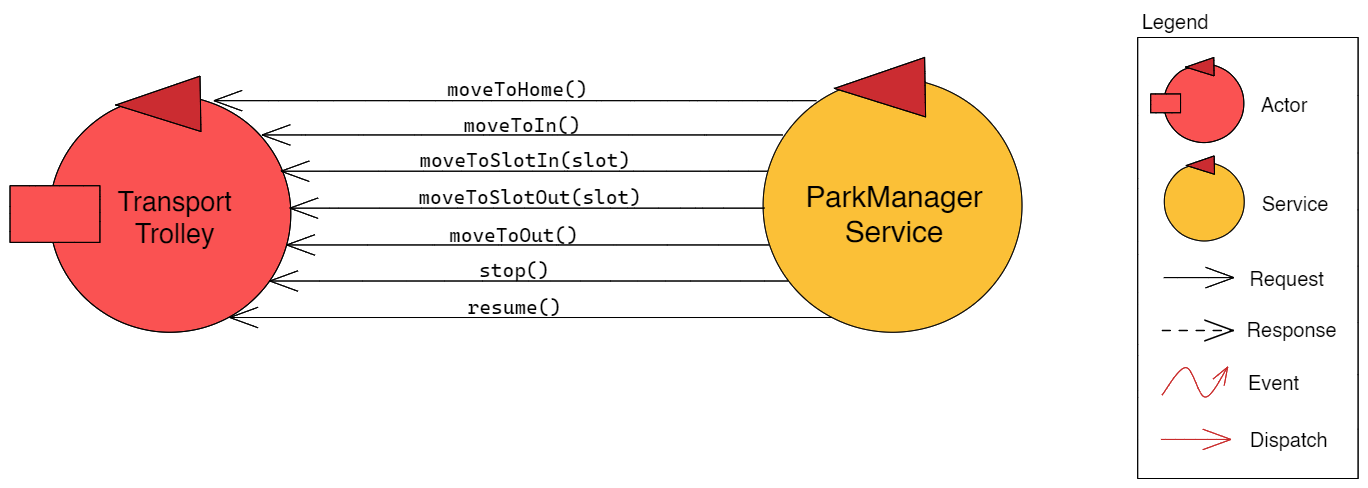
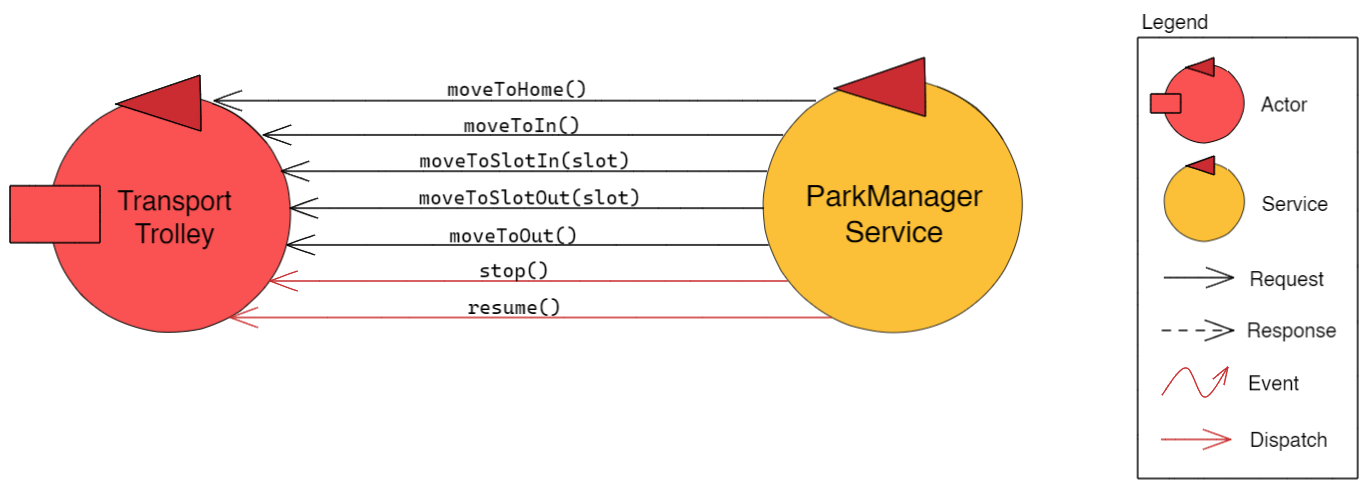
fix inconsistencies between the model.qak and the document

diff --git a/sprint0/userDocs/ParkManagerService.html b/sprint0/userDocs/ParkManagerService.html
@@ -553,7 +553,9 @@
 		a distributed system, and most likely the transport trolley will be on a separate node, the transport trolley
 		will be modelled as an active entity, an actor, that wraps the basicrobot. The following graphs show the
 		interaction between the transport trolley and the ParkManagerService. These basic interactions can be deduced
-		from the requirements. Further interaction will be added if needed in the problem analysis.
+		from the requirements. Further interaction will be added if needed in the problem analysis. Since we have clarified
+		with the customer that the requests fot the moves are not handled in parallel, we have represented them as
+		synchronous request, while the stop and resume command are dispatch.
 
 		<img style="max-width: 100%" src="img/trolley-interaction.png" alt="trolley interaction">
 
